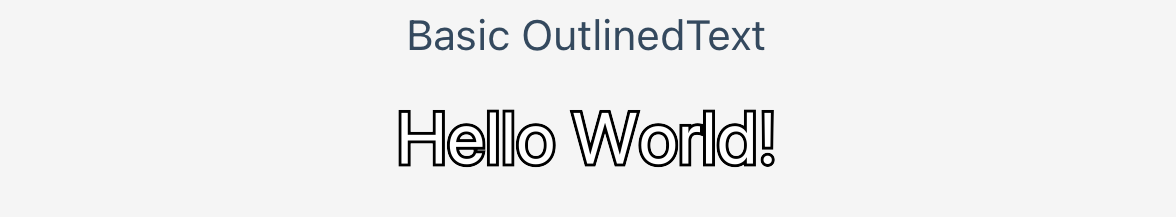
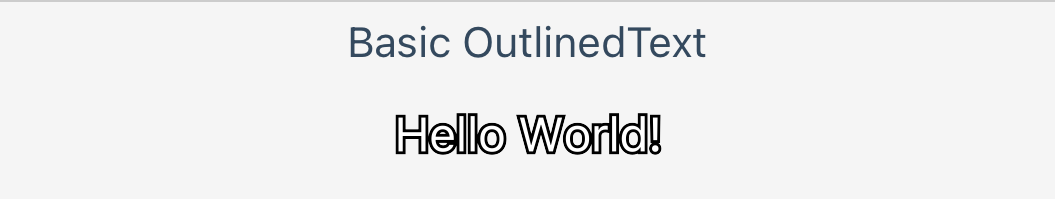
fix: update font sizes and colors in OutlinedText component examples
- Adjust font sizes for better consistency across examples
- Update stroke and fill colors to use hex values for clarity
- Replace outdated properties in example usage of OutlinedText

Changed region(s): [[0.3336, 0.4824, 0.6673, 0.7839], [0.3336, 0.0905, 0.6673, 0.3015], [0.0, 0.0, 1.0, 0.0302]]

diff --git a/example/App.tsx b/example/App.tsx
@@ -13,10 +13,7 @@ export default function App() {
           <Text style={styles.sectionTitle}>Basic OutlinedText</Text>
           <OutlinedText
             text="Hello World!"
-            fontSize={24}
-            strokeWidth={1}
-            strokeColor="#000"
-            fillColor="#fff"
+            fontSize={16}
             width={200}
           />
         </View>
@@ -25,7 +22,7 @@ export default function App() {
           <Text style={styles.sectionTitle}>Colored Outlined Text</Text>
           <OutlinedText
             text="Colorful Text"
-            fontSize={28}
+            fontSize={26}
             strokeWidth={2}
             strokeColor="#ff6b6b"
             fillColor="#FFFFFF"
@@ -38,8 +35,6 @@ export default function App() {
           <OutlinedText
             text="Shadowed Text"
             fontSize={48}
-            strokeWidth={1}
-            strokeColor="#000"
             width={250}
             shadowColor="#8c8c8c"
             shadowOffsetX={4}

diff --git a/src/components/OutlinedText.tsx b/src/components/OutlinedText.tsx
@@ -231,10 +231,10 @@ export function SvgTextOutlined({
   text,
   width,
   height,
-  fontSize = 26,
-  strokeColor = 'black',
+  fontSize = 16,
+  strokeColor = '#000000',
   strokeWidth = 1,
-  fillColor = 'white',
+  fillColor = '#FFFFFF',
   shadowColor = '#000000',
   shadowOffsetX = 0,
   shadowOffsetY = 0,
